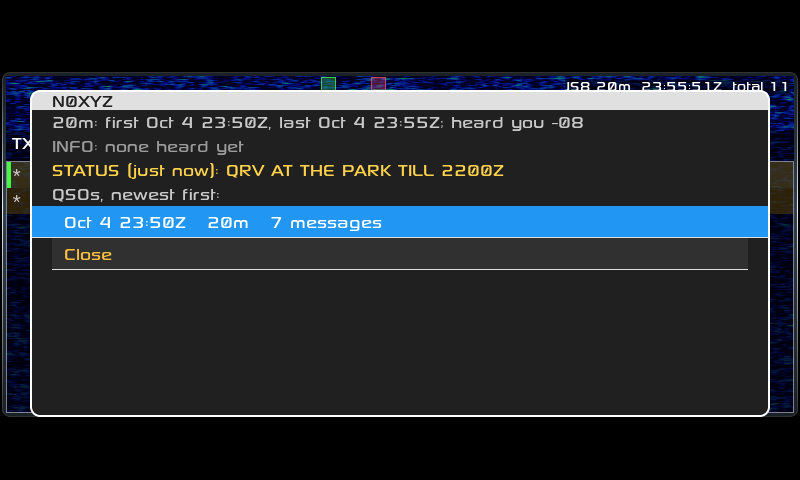
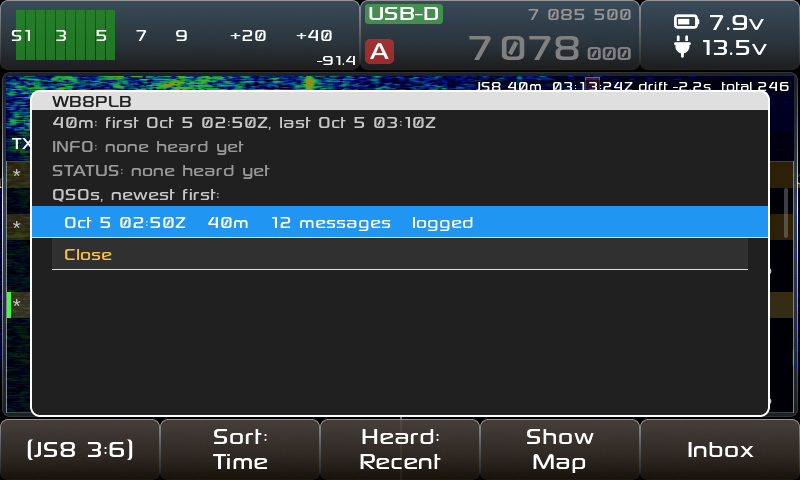
docs: radio screenshots for beta 4.5 (WB8PLB's History, a QSO, map count tags, the World view)
Claude-Session: https://claude.ai/code/session_01Gw13epFQn5NUgqq73Bk9qk

diff --git a/docs/releases/js8-beta4.5.md b/docs/releases/js8-beta4.5.md
@@ -2,7 +2,7 @@
 
 Beta 4.5 brings a **station History**, **automatic time sync**, **saved messages with macros**, a smarter Stations view and map, **high-SWR protection**, more **APRS** services, a lighter and calmer **waterfall**, and a USB keyboard that works when you plug it in with the radio on.
 
-![A station's History page](https://raw.githubusercontent.com/randal007/x6100-js8/js8-beta4.5/docs/screenshots/16_history.png)
+![WB8PLB's History page on the radio](https://raw.githubusercontent.com/randal007/x6100-js8/js8-beta4.5/docs/screenshots/16_history.png)
 
 ### Install
 
@@ -48,6 +48,20 @@ Beta 4.5 brings a **station History**, **automatic time sync**, **saved messages
 
 - **GPS** time and location from a USB GPS
 - **A Bluetooth keyboard** tried with JS8
+
+### On the air
+
+A 40 m QSO with WB8PLB, kept in the History (12 messages, logged), and opened to read:
+
+![WB8PLB's History page](https://raw.githubusercontent.com/randal007/x6100-js8/js8-beta4.5/docs/screenshots/17_history_qso.png)
+
+The map on 40 m: blue paths to the stations that heard VE7NHW, white count tags where several share a square:
+
+![The map with count tags](https://raw.githubusercontent.com/randal007/x6100-js8/js8-beta4.5/docs/screenshots/18_map_counts.png)
+
+The World view on 20 m with DX heard (HB9BV in Switzerland selected) and the band's other QSOs as grey lines:
+
+![The World view](https://raw.githubusercontent.com/randal007/x6100-js8/js8-beta4.5/docs/screenshots/19_map_world.png)
 
 See the [manual](https://github.com/randal007/x6100-js8#readme) for how to use everything.
 

diff --git a/README.md b/README.md
@@ -354,6 +354,9 @@ white border.
   without a grid at their call area's, so on a busy band several hide
   under one square; `3` says there are three. It counts what the map
   shows (with *Heard me*, only those).
+
+  ![On the radio, 40 m: paths to those who heard VE7NHW, count tags where several share a square, N3DNA selected](docs/screenshots/18_map_counts.png)
+
 - **Grey lines:** other stations talking to each other (`W7XYZ: K9DEF
   HW CPY?`), a relay's hops too, fading out over 10 minutes; drawn when
   both ends are on the map.
